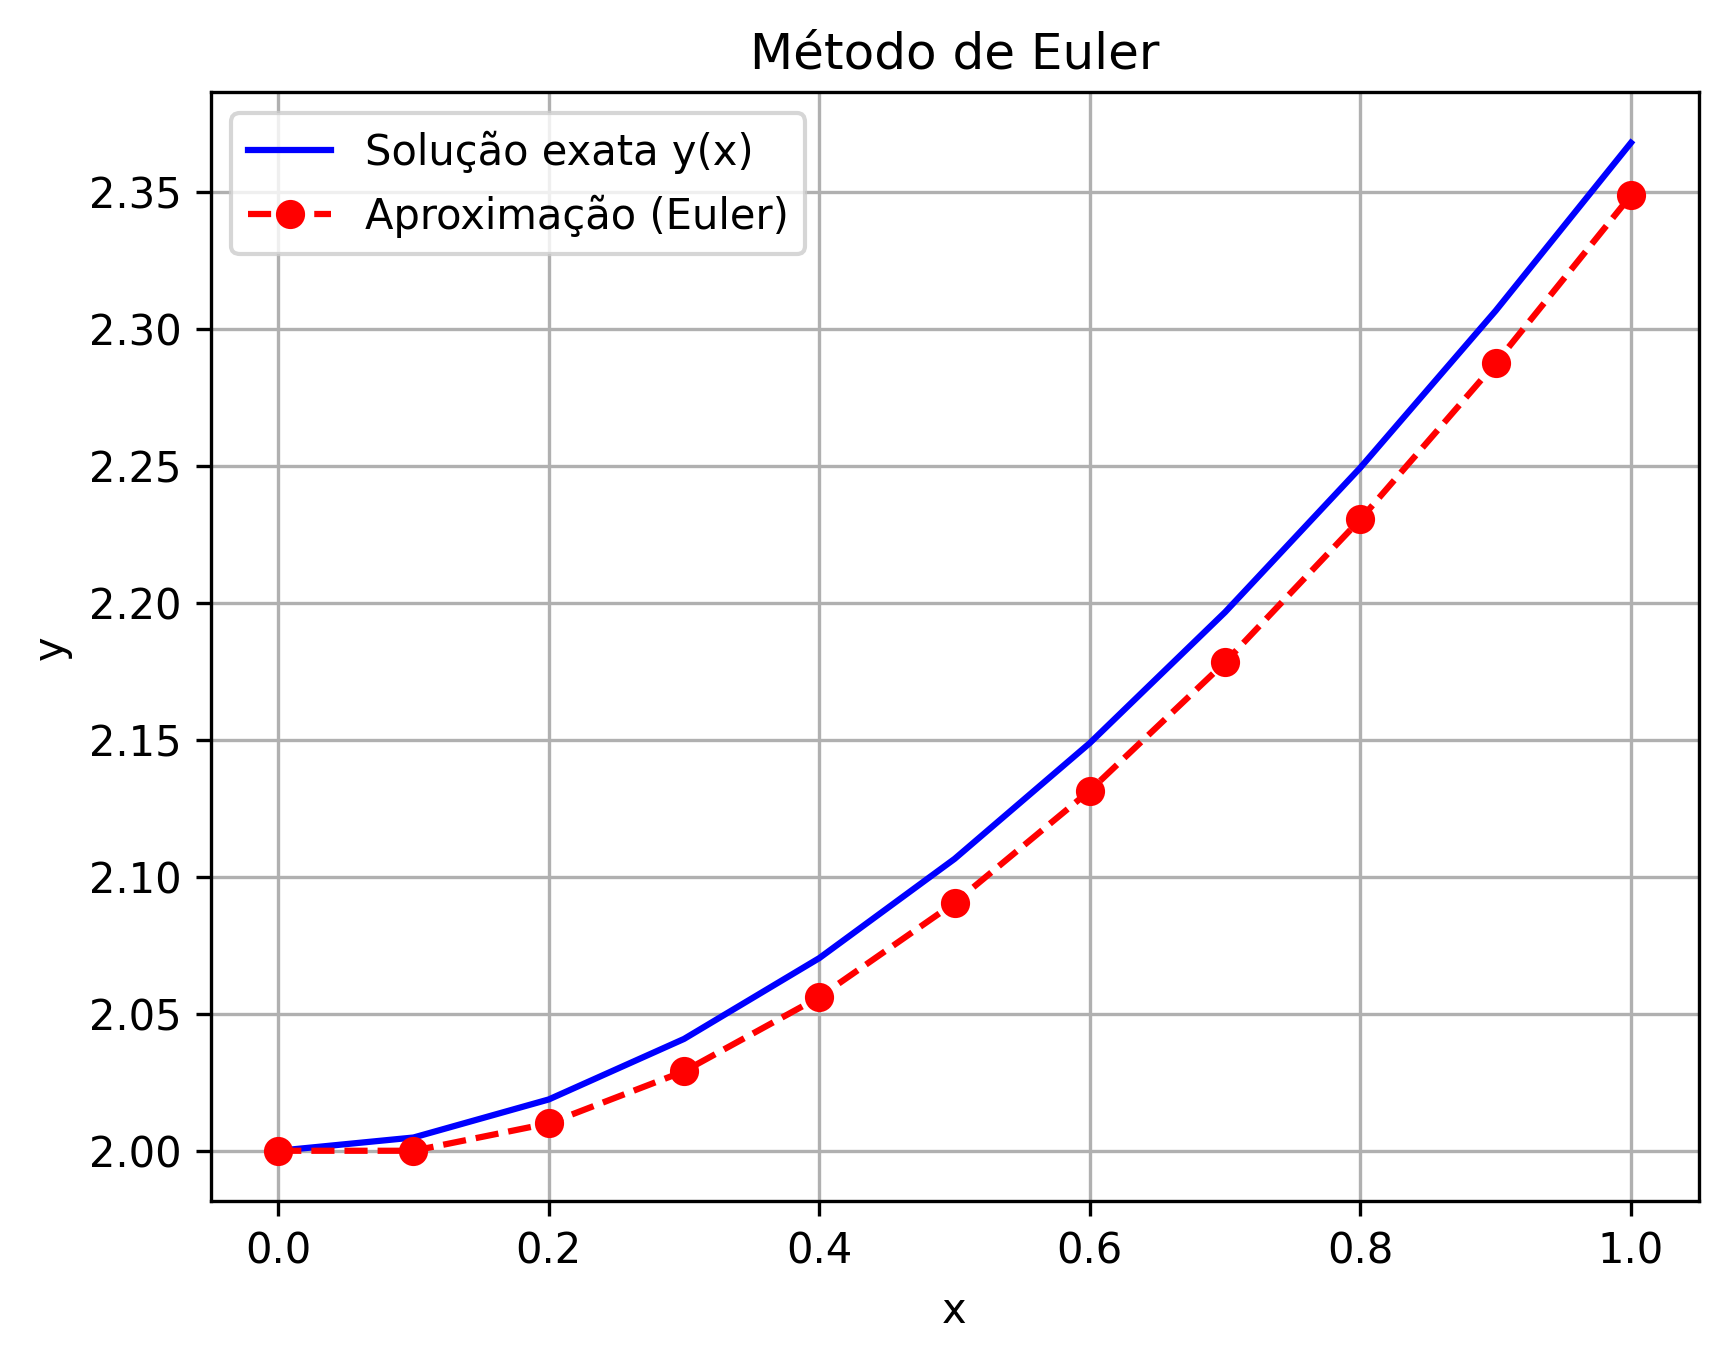
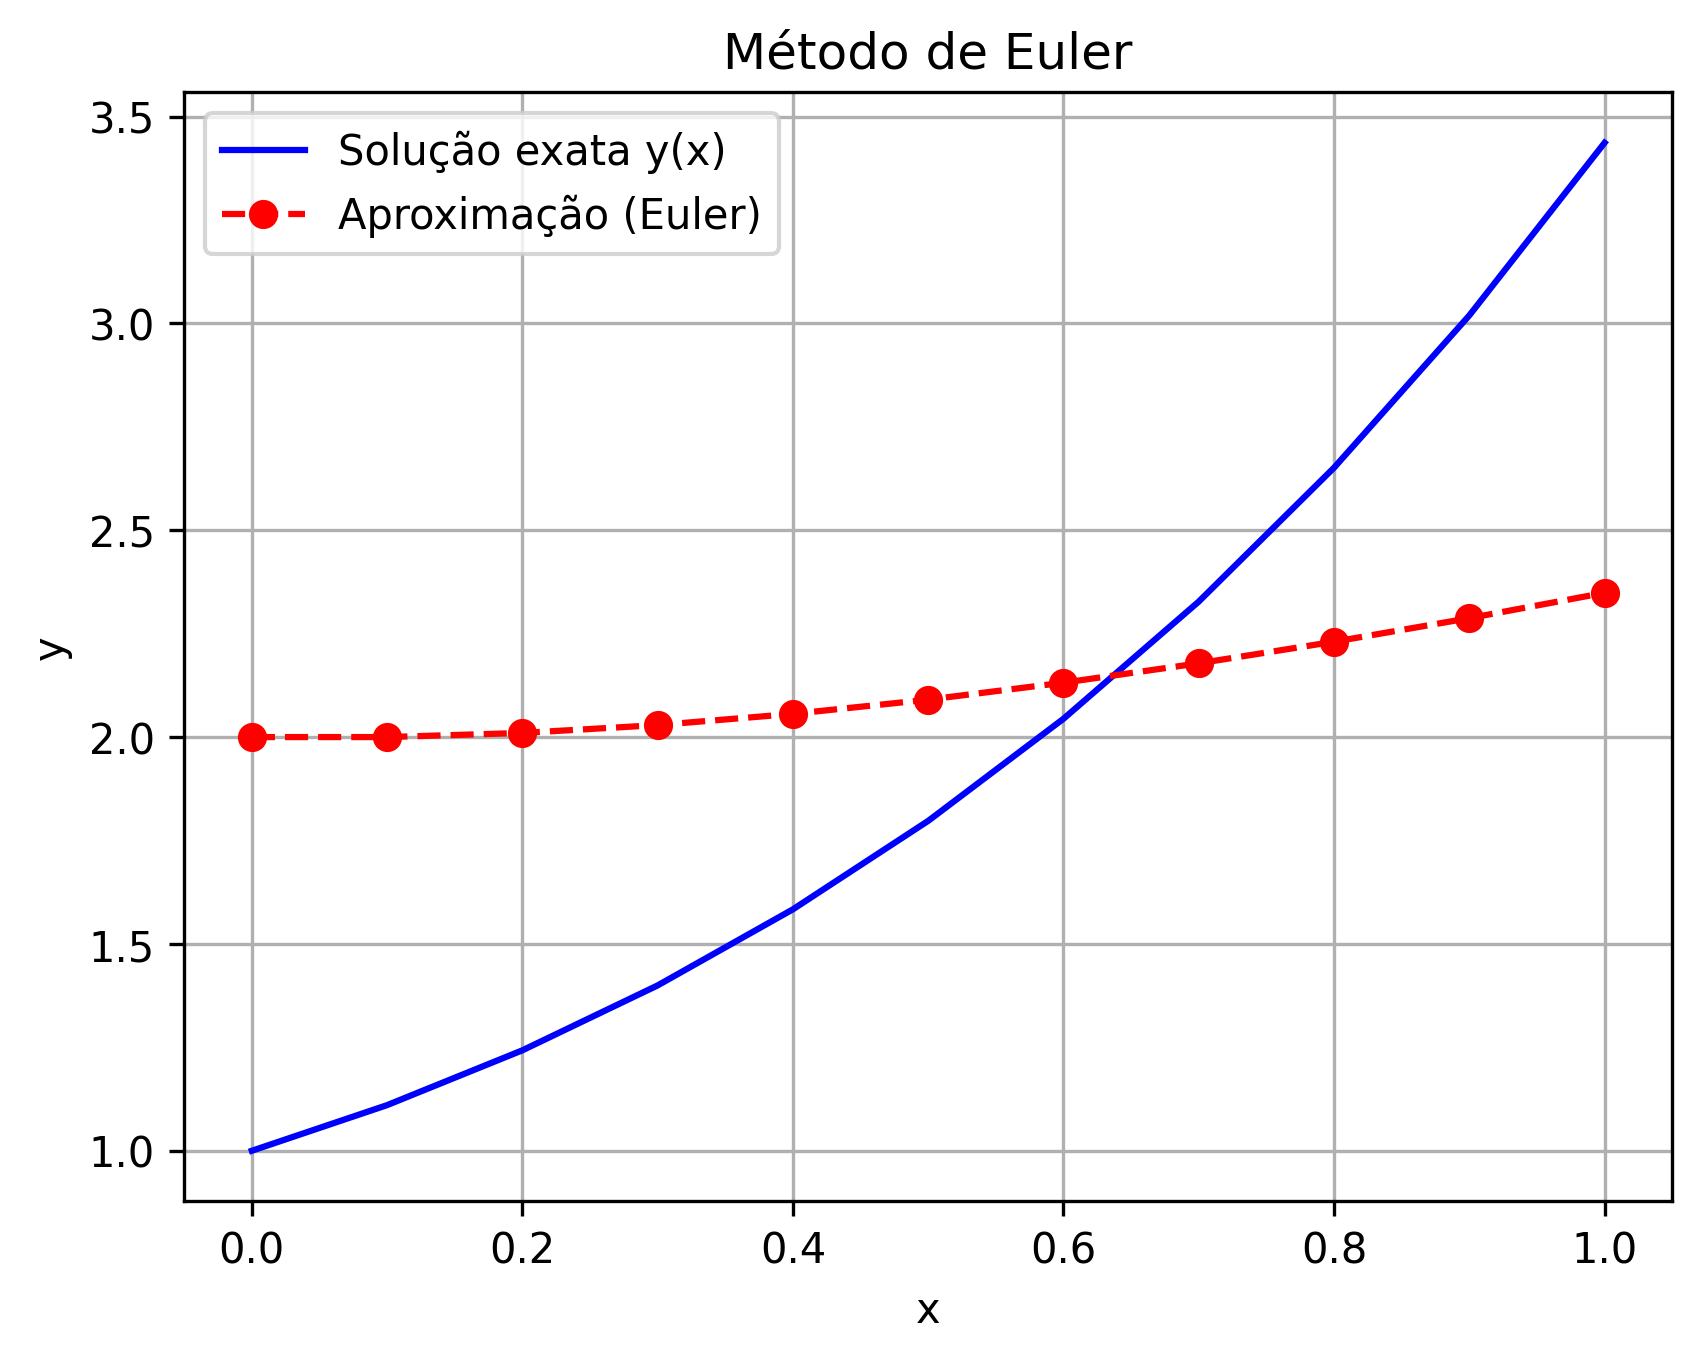
Correcao na linha 34

diff --git a/euler.py b/euler.py
@@ -4,13 +4,13 @@ import matplotlib.pyplot as plt
 # Função f(x, y) do PVI -> y' = f(x, y)
 def f(x, y):
     # Exemplo: y' = x + y
-    return x + y
+    return x - y + 2
 
-# Condições iniciais (y(0) = 1)
+# Condições iniciais (y(0) = 2)
 x0 = 0.0 # ponto inicial
-y0 = 1.0 # valor inicial
+y0 = 2.0 # valor inicial
 
-# construção da malha [0, 1]
+# malha [0, 1]
 a = 0.0 # inicio do intervalo
 b = 1.0 # fim do intervalo
 
@@ -18,28 +18,29 @@ h = 0.1       # número de subdivisões
 
 m = int((b - a) / h)  # número de subintervalos
 
-# Inicialização dos vetores x e y, onde iremos armazenar os valores de x e y
+# Inicialização dos vetores x e y
 x = np.zeros(m + 1)
 y = np.zeros(m + 1)
 
-# Valores iniciais para os vetores
+# Valores iniciais
 x[0], y[0] = x0, y0
 
 # Método de Euler
 for i in range(m):
-    y[i + 1] = y[i] + h * f(x[i], y[i]) # Utilizando a formula fundamental do método de Euler para calcular
+    y[i + 1] = y[i] + h * f(x[i], y[i])
     x[i + 1] = x[i] + h
 
 # solução exata: y(x) = x + 1 + e^{-x}
-y_exact = x + 1 + np.exp(-x)
+y_exact = 2 * np.exp(x) - x - 1
+errors = np.abs(y_exact - y)
 
 # Exibição da tabela
-print(" j |   x_j  |  y_j (Euler)  |  y(x_j) exato")
+print(" i |   x_i  |  y_i (Euler)  |  y(x_i) exato  |  erro")
 print(70*"-")
 for i in range(m+1):
-    print(f"{i:2d} | {x[i]:4.1f}  | {y[i]:12.6f} | {y_exact[i]:12.6f}")
+    print(f"{i:2d} | {x[i]:4.1f}  | {y[i]:12.6f} | {y_exact[i]:12.6f} | {errors[i]:8.6f}")
 
-# Gráfico comparando a solução exata (azul) e da poligonal com vértices nos pontos (x_j, y_j) (vermelha)
+# Gráfico comparando as soluções
 plt.plot(x, y_exact, 'b-', label='Solução exata y(x)')
 plt.plot(x, y, 'ro--', label='Aproximação (Euler)')
 plt.xlabel('x')
@@ -48,5 +49,4 @@ plt.title('Método de Euler')
 plt.legend()
 plt.grid(True)
 plt.savefig("grafico_euler.png", dpi=300, bbox_inches='tight')
-
 plt.show()
